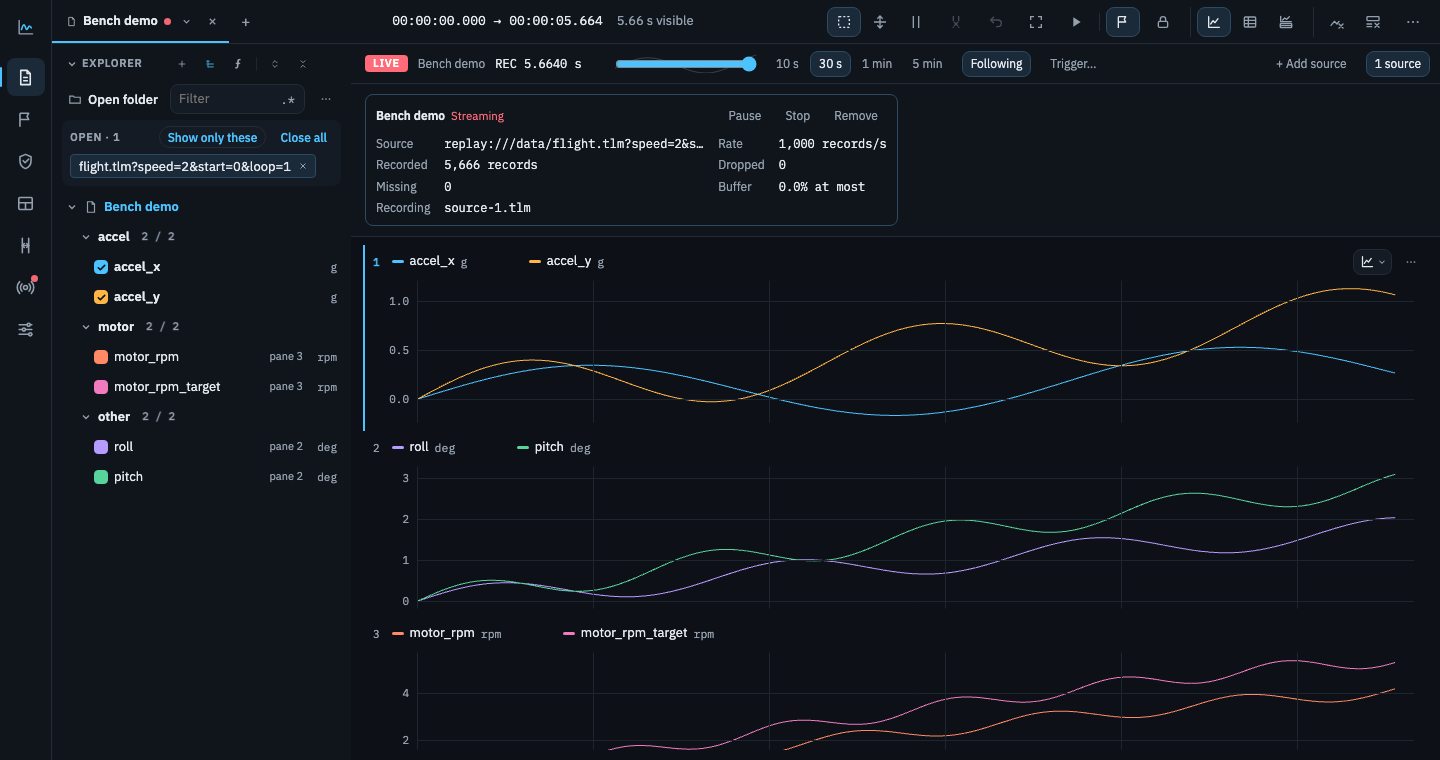
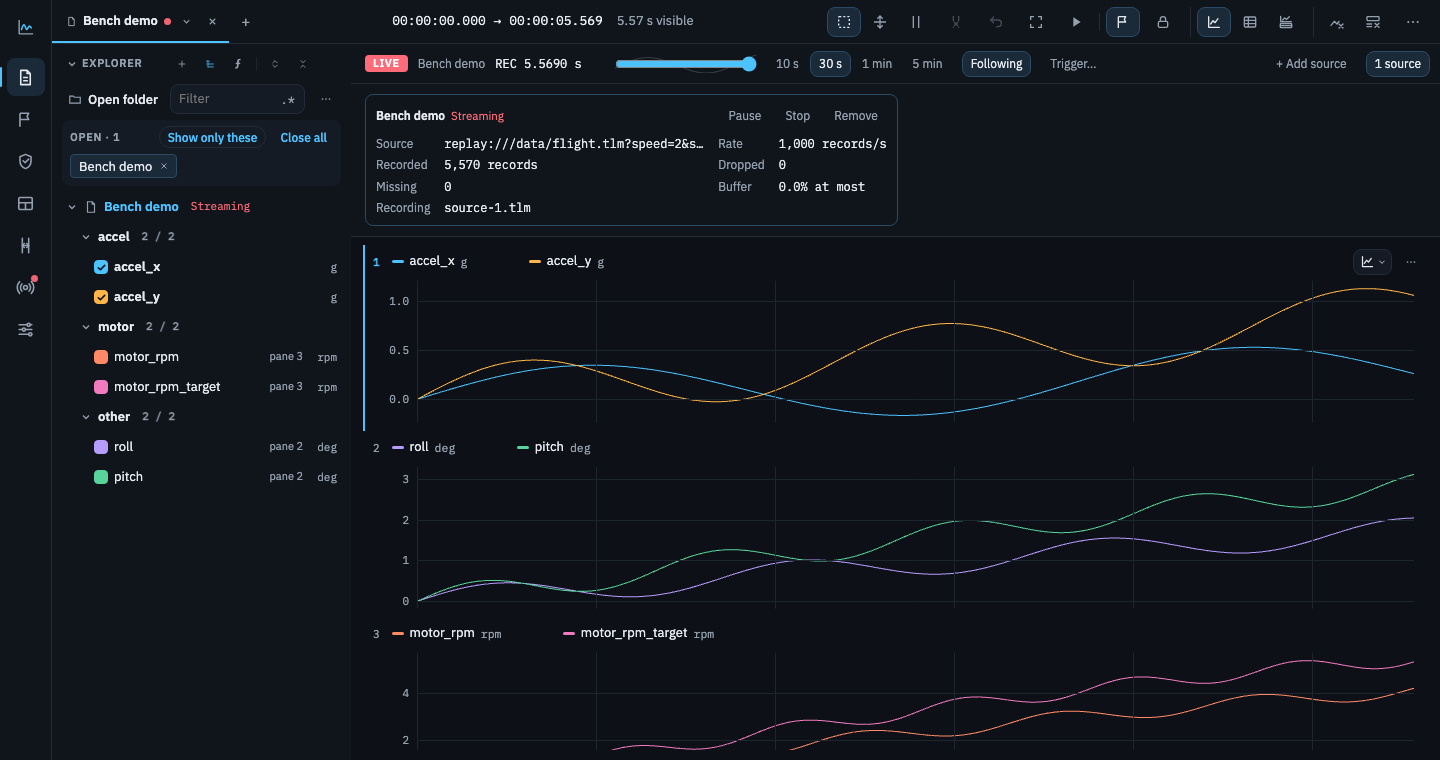
README screenshots: the viewer and the Export to HTML dialog; the ⋯ menu and the live tab as they are now

diff --git a/app/ui/tests/shots.js b/app/ui/tests/shots.js
@@ -24,6 +24,9 @@ for (const scheme of ['dark', 'light']) {
     await p.click('#b-more');
     await p.waitForTimeout(300);
     await shot(p, 'app-more-menu.png');
+    await p.click('.moremenu [data-more="exporthtml"]');
+    await p.waitForTimeout(500);
+    await shot(p, 'app-export-html.png');
     await p.keyboard.press('Escape');
     await p.click('#b-settings');
     await p.waitForTimeout(300);

diff --git a/README.md b/README.md
@@ -21,6 +21,10 @@ learns about a file lives in its own cache, so a read-only network share works a
 | --- |
 | ![A live tab following a replayed recording, with the Sources panel's card and the trigger button](docs/images/app-live.png) |
 
+| An HTML export, from a static server | Export to HTML… |
+| --- | --- |
+| ![An HTML export opened from a static server: the layout's panes, the checks summary and the violations marked, nothing that edits](docs/images/app-viewer.png) | ![The Export to HTML dialog: Automatic, Full and Light with their sizes against the budget](docs/images/app-export-html.png) |
+
 ## Why it's fast, and why you can trust what it draws
 
 - **A min/max pyramid per channel.** A recording is read once, at disk speed, into summaries of 256, 1,024,
